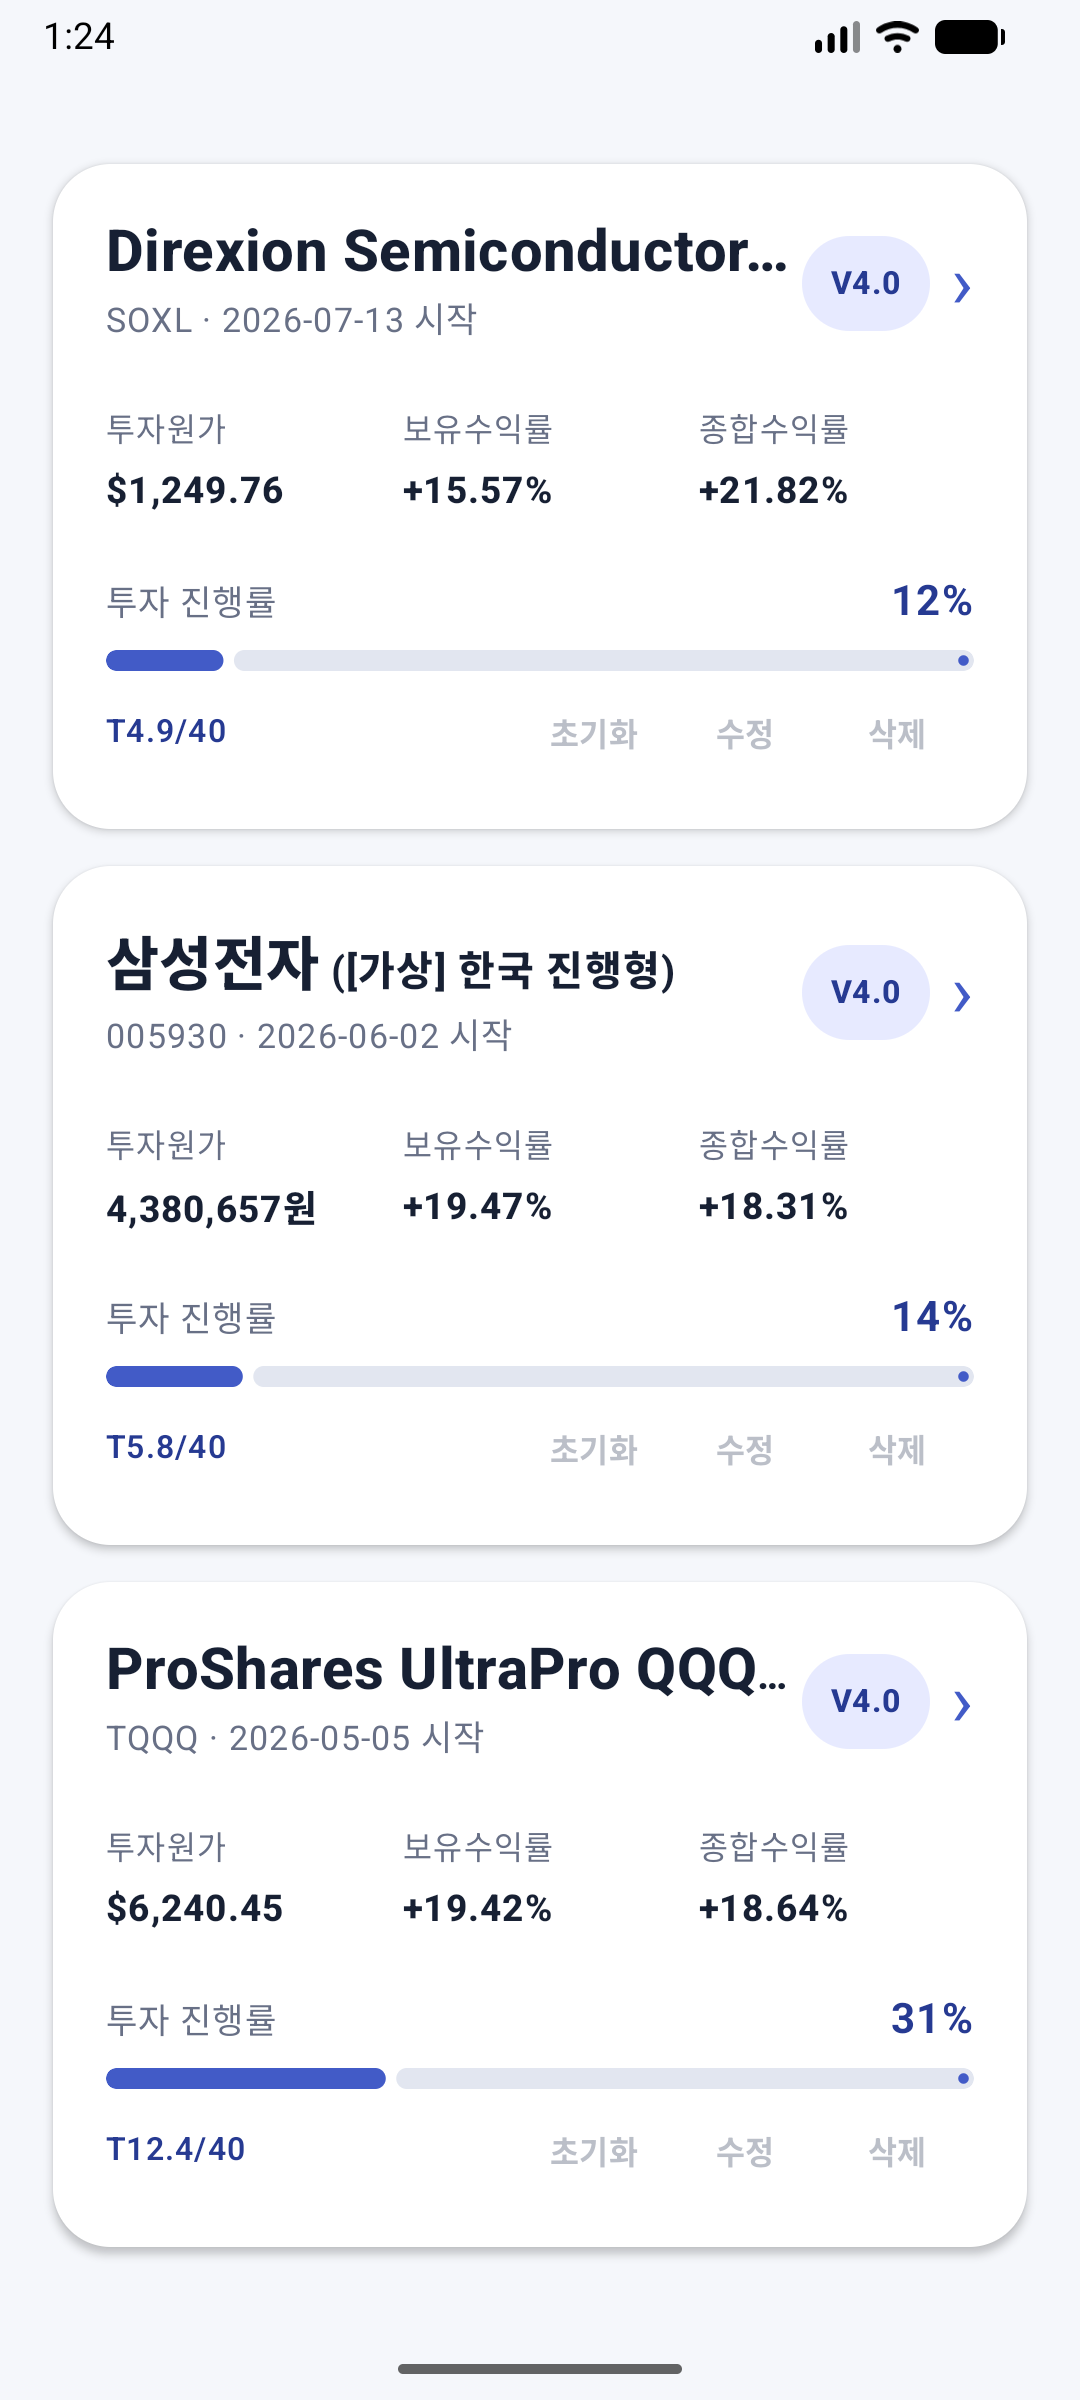
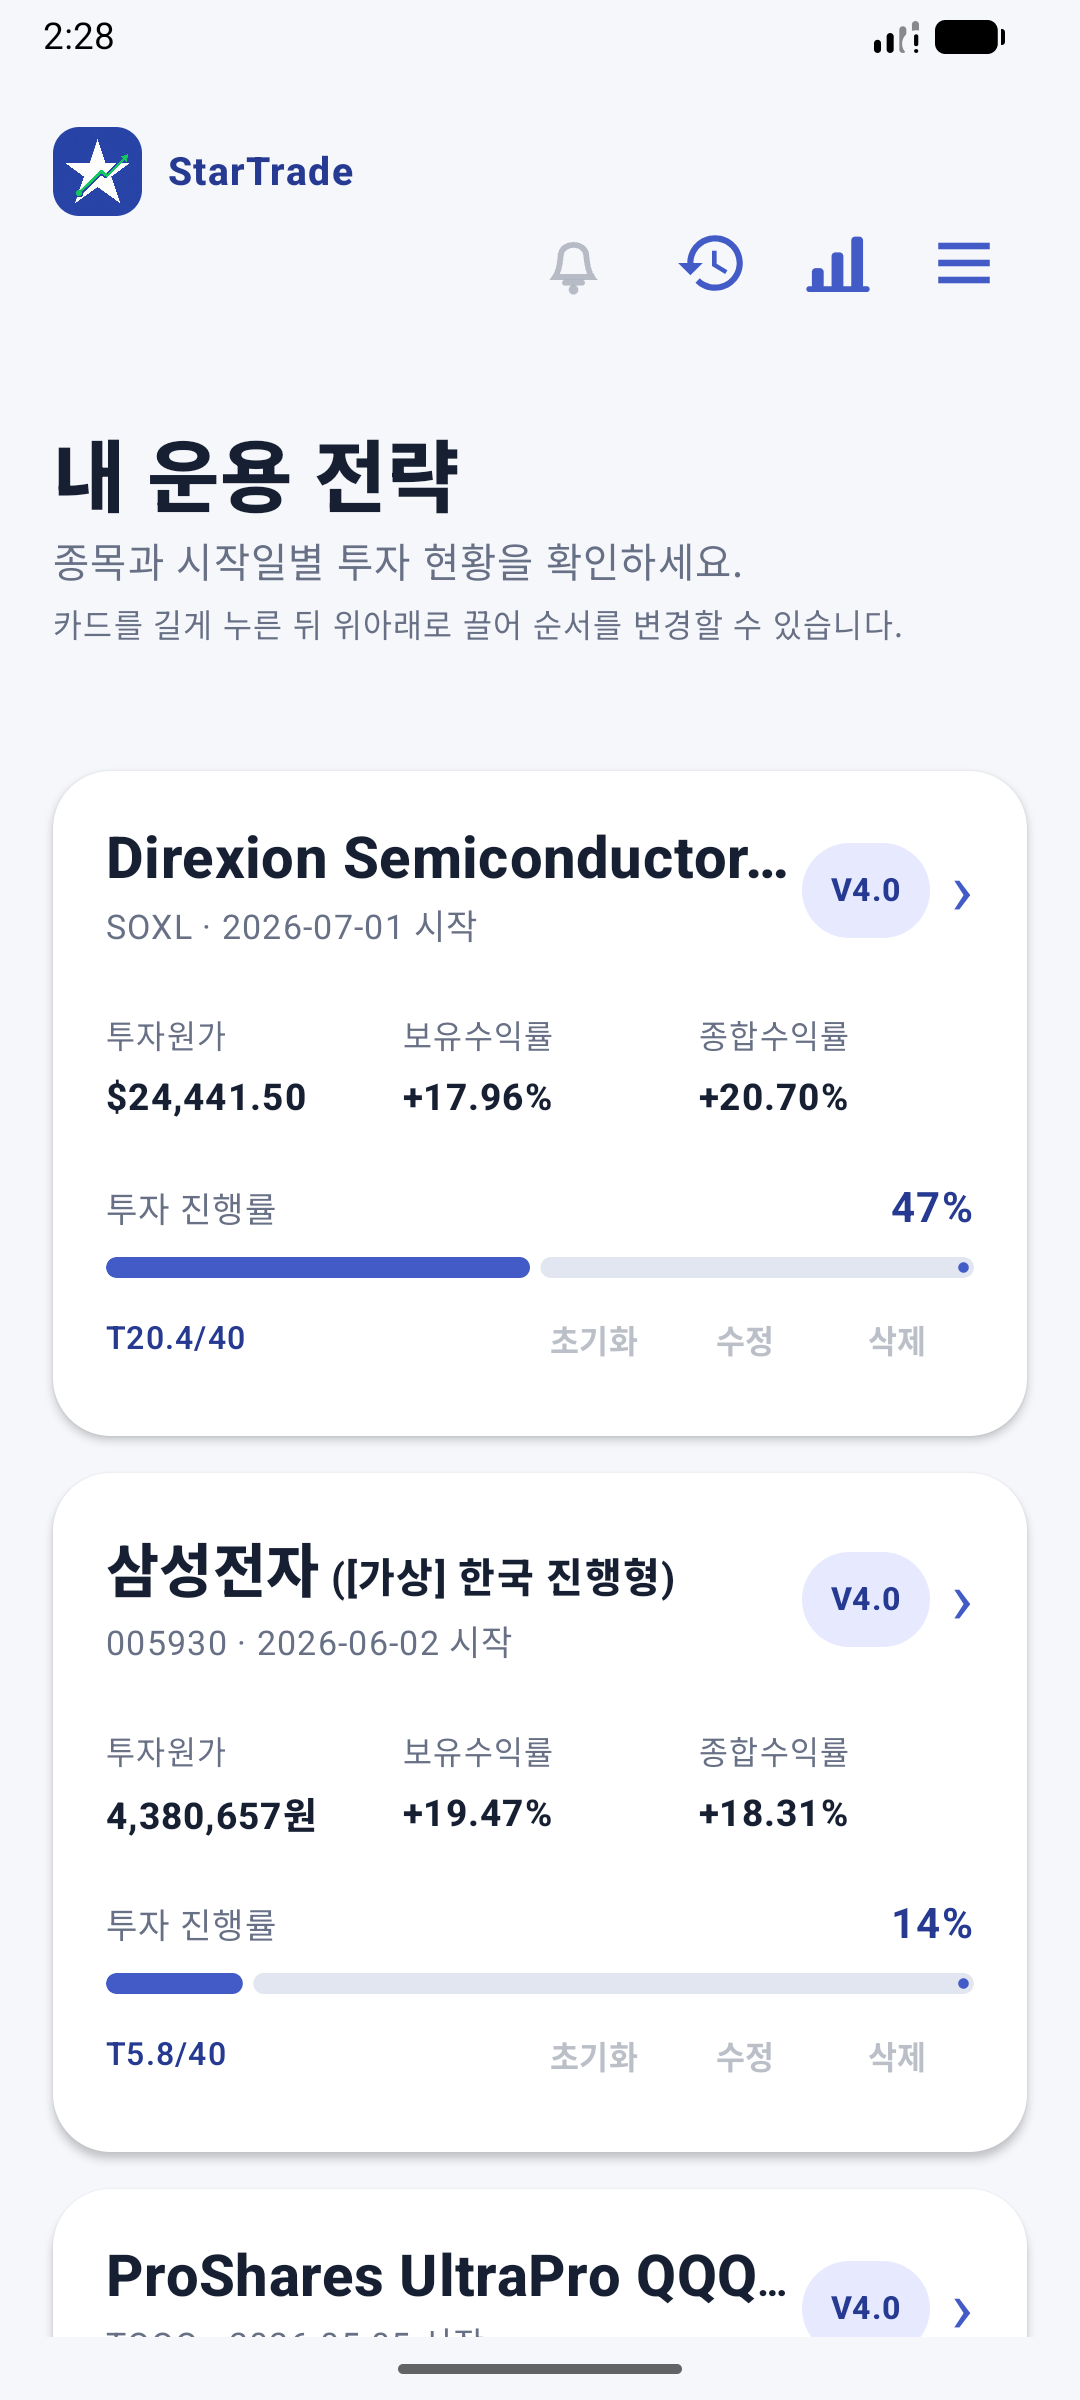
Refresh screenshots with realistic SOXL V4 pattern

diff --git a/index.html b/index.html
@@ -202,7 +202,7 @@
       nav a { padding: 7px 8px; font-size: 14px; }
       section { padding: 24px 19px; border-radius: 18px; }
       .quick-grid, .feature-grid, .term-grid { grid-template-columns: 1fr; }
-      .screenshots { grid-template-columns: repeat(6, 76vw); }
+      .screenshots { grid-template-columns: repeat(5, 76vw); }
       .guide-visuals { grid-template-columns: 1fr; }
     }
   </style>
@@ -271,16 +271,15 @@
 
       <section id="screens">
         <h2>주요 화면</h2>
-        <p>아래 이미지는 TQQQ·SOXL 가상 운용으로 구성한 실제 앱 화면입니다. 휴대전화에서는 좌우로 밀어 확인하고, 이미지를 누르면 원본 크기로 볼 수 있습니다.</p>
+        <p>아래 이미지는 SOXL을 2026년 7월 1일부터 총 50,000달러·40분할로 가상 운용한 실제 앱 화면입니다. 휴대전화에서는 좌우로 밀어 확인하고, 이미지를 누르면 원본 크기로 볼 수 있습니다.</p>
         <div class="screenshots">
           <figure><a href="assets/screenshots/v96-portfolio-list.png" target="_blank" rel="noopener"><img src="assets/screenshots/v96-portfolio-list.png" alt="SOXL, 삼성전자, TQQQ 가상 운용 목록" loading="lazy"></a><figcaption>운용별 투자원가·수익률·진행률</figcaption></figure>
-          <figure><a href="assets/screenshots/v96-tqqq-order-plan.png" target="_blank" rel="noopener"><img src="assets/screenshots/v96-tqqq-order-plan.png" alt="TQQQ 동시 매수와 매도 주문계획" loading="lazy"></a><figcaption>TQQQ Star·평단·추가 1주 주문계획</figcaption></figure>
-          <figure><a href="assets/screenshots/v96-tqqq-trade-history.png" target="_blank" rel="noopener"><img src="assets/screenshots/v96-tqqq-trade-history.png" alt="TQQQ 매수와 매도 체결 이력" loading="lazy"></a><figcaption>TQQQ 체결 후 수량·평단·손익</figcaption></figure>
-          <figure><a href="assets/screenshots/v96-tqqq-report.png" target="_blank" rel="noopener"><img src="assets/screenshots/v96-tqqq-report.png" alt="TQQQ 가격 추세 리포트" loading="lazy"></a><figcaption>TQQQ 종가·평단·Star·목표가 추세</figcaption></figure>
           <figure><a href="assets/screenshots/v96-soxl-order-plan.png" target="_blank" rel="noopener"><img src="assets/screenshots/v96-soxl-order-plan.png" alt="SOXL V4.0 동시 매수와 매도 주문계획" loading="lazy"></a><figcaption>SOXL V4.0 주문계획</figcaption></figure>
+          <figure><a href="assets/screenshots/v96-soxl-trade-history.png" target="_blank" rel="noopener"><img src="assets/screenshots/v96-soxl-trade-history.png" alt="SOXL 0.5배 매수와 1/4 매도 체결 이력" loading="lazy"></a><figcaption>0.5배 매수와 1/4 Star 매도</figcaption></figure>
+          <figure><a href="assets/screenshots/v96-soxl-report.png" target="_blank" rel="noopener"><img src="assets/screenshots/v96-soxl-report.png" alt="SOXL 가격과 계단식 보유수량 리포트" loading="lazy"></a><figcaption>일별 매수와 매도에 따른 보유수량</figcaption></figure>
           <figure><a href="assets/screenshots/v96-soxl-statistics.png" target="_blank" rel="noopener"><img src="assets/screenshots/v96-soxl-statistics.png" alt="SOXL 운용 통계 가격과 보유 추세" loading="lazy"></a><figcaption>SOXL 가격·보유수량 통계 그래프</figcaption></figure>
         </div>
-        <p class="visual-note">화면의 종목, 가격, 체결과 수익은 사용법 설명을 위한 가상데이터이며 실제 투자성과가 아닙니다.</p>
+        <p class="visual-note">매 거래일 종가에 따라 1회분(1,250달러)의 0.5배 또는 1배를 매수하고, 두 차례 보유수량의 1/4을 매도한 가상 시나리오입니다. 화면의 가격·체결·수익은 사용법 설명용이며 실제 투자성과가 아닙니다.</p>
       </section>
 
       <section id="add">
@@ -325,8 +324,7 @@
           <li>증권사 앱에서 LOC·MOC 지원 여부, 주문 가능시간, 가격·수량과 예상금액을 반드시 다시 확인합니다.</li>
         </ul>
         <div class="guide-visuals" id="order-examples">
-          <figure class="guide-shot"><a href="assets/screenshots/v96-tqqq-order-plan.png" target="_blank" rel="noopener"><img src="assets/screenshots/v96-tqqq-order-plan.png" alt="TQQQ 주문계획의 Star, 평단, 추가 1주 LOC 가격" loading="lazy"></a><figcaption>TQQQ: 추가 1주 LOC는 한 줄에 최대 3개씩 배치됩니다.</figcaption></figure>
-          <figure class="guide-shot"><a href="assets/screenshots/v96-soxl-order-plan.png" target="_blank" rel="noopener"><img src="assets/screenshots/v96-soxl-order-plan.png" alt="SOXL V4.0 주문계획의 매수와 매도 가격" loading="lazy"></a><figcaption>SOXL V4.0: Star·평단 매수와 Star·목표가 매도를 함께 확인합니다.</figcaption></figure>
+          <figure class="guide-shot"><a href="assets/screenshots/v96-soxl-order-plan.png" target="_blank" rel="noopener"><img src="assets/screenshots/v96-soxl-order-plan.png" alt="SOXL V4.0 주문계획의 매수와 매도 가격" loading="lazy"></a><figcaption>SOXL V4.0: Star·평단 매수와 추가 1주 LOC, Star·목표가 매도를 함께 확인합니다.</figcaption></figure>
         </div>
       </section>
 
@@ -366,7 +364,7 @@
         <p>안전설정을 켜면 매매이력 카드의 수정·삭제 버튼을 사용할 수 있습니다. 과거 기록을 변경하면 이후 거래를 시간순으로 다시 적용하여 평균단가·수량·현금·손익을 전면 재계산합니다.</p>
         <div class="callout danger"><strong>수정 전 백업</strong>과거 체결을 수정하거나 삭제하기 전에 반드시 최신 암호화 백업을 만들어 두세요.</div>
         <div class="guide-visuals" id="trade-example">
-          <figure class="guide-shot"><a href="assets/screenshots/v96-tqqq-trade-history.png" target="_blank" rel="noopener"><img src="assets/screenshots/v96-tqqq-trade-history.png" alt="TQQQ 매매이력 카드에 표시된 체결 후 수량과 손익" loading="lazy"></a><figcaption>체결 카드에서 가격·수량·정산금액·체결 후 평단과 매도손익을 검산합니다.</figcaption></figure>
+          <figure class="guide-shot"><a href="assets/screenshots/v96-soxl-trade-history.png" target="_blank" rel="noopener"><img src="assets/screenshots/v96-soxl-trade-history.png" alt="SOXL 매매이력의 0.5배 매수와 1/4 Star 매도" loading="lazy"></a><figcaption>일별 0.5배·1배 매수와 1/4 매도 후 수량·평단·실현손익을 검산합니다.</figcaption></figure>
         </div>
       </section>
 
@@ -380,7 +378,7 @@
         </div>
         <p>통계의 <strong>기간과 겹침</strong> 조건은 선택 기간과 실제 운용기간이 일부라도 겹치는 현재·종료 운용을 포함합니다. 전체 종목 조회 시 같은 종목의 여러 운용은 통합하고 한국·미국 통화를 구분합니다.</p>
         <div class="guide-visuals" id="report-examples">
-          <figure class="guide-shot"><a href="assets/screenshots/v96-tqqq-report.png" target="_blank" rel="noopener"><img src="assets/screenshots/v96-tqqq-report.png" alt="TQQQ 운용상세 리포트 가격 추세" loading="lazy"></a><figcaption>운용상세 리포트: 종가와 평단, 점선 Star 가격, 목표가와 보유수량을 한 화면에서 봅니다.</figcaption></figure>
+          <figure class="guide-shot"><a href="assets/screenshots/v96-soxl-report.png" target="_blank" rel="noopener"><img src="assets/screenshots/v96-soxl-report.png" alt="SOXL 운용상세 리포트 가격과 계단식 보유수량 추세" loading="lazy"></a><figcaption>운용상세 리포트: 점선 Star 가격과 목표가, 일별 매수로 증가하고 1/4 매도 때 감소하는 보유수량을 함께 봅니다.</figcaption></figure>
           <figure class="guide-shot"><a href="assets/screenshots/v96-soxl-statistics.png" target="_blank" rel="noopener"><img src="assets/screenshots/v96-soxl-statistics.png" alt="SOXL 운용 통계 가격과 보유 추세" loading="lazy"></a><figcaption>운용 통계: 선택 기간의 가격선과 매수·매도에 따른 보유수량 변화를 비교합니다.</figcaption></figure>
         </div>
       </section>
